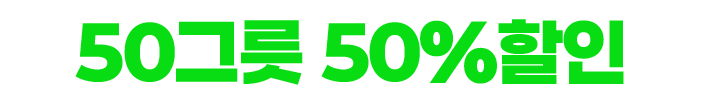
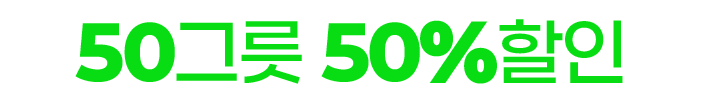
바로가기 버튼 및 이미지 수정

Changed region(s): [[0.688, 0.1748, 0.8974, 0.7573], [0.2393, 0.1748, 0.4487, 0.8155], [0.7179, 0.7864, 0.8974, 0.8155]]

diff --git a/pangyo/css/style.css b/pangyo/css/style.css
@@ -341,3 +341,46 @@ button {
   }
 }
 
+.event-link-button {
+  display: flex;
+  justify-content: center;
+  margin: 60px auto 20px;
+  background: transparent;
+  border: none;
+}
+
+.event-link-button span {
+  display: inline-flex;
+  align-items: center;
+  justify-content: center;
+
+  padding: 10px 28px;
+
+  background: linear-gradient(180deg, #39ff3b 0%, #18d81d 100%);
+  color: #241715;
+
+  font-family: "Paperlogy";
+  font-weight: 700;
+  font-size: 17px;
+
+  border-radius: 999px;
+
+  box-shadow:
+    0 4px 12px rgba(57,255,59,.35),
+    inset 0 2px 0 rgba(255,255,255,.45);
+
+  cursor: pointer;
+  transition: .25s;
+}
+
+.event-link-button span:hover {
+  transform: translateY(-3px) scale(1.03);
+  box-shadow:
+    0 6px 15px rgba(57,255,59,.45),
+    inset 0 2px 0 rgba(255,255,255,.55);
+}
+
+.event-link-button span:active {
+  transform: scale(.97);
+}
+

diff --git a/pangyo/js/script.js b/pangyo/js/script.js
@@ -19,12 +19,16 @@ revealElements.forEach((element) => {
   revealObserver.observe(element);
 });
 
-const scrollButton = document.querySelector(".scroll-button");
+const eventScrollButtons = document.querySelectorAll(".js-scroll-to-event");
 const eventSection = document.querySelector("#event");
 
-scrollButton?.addEventListener("click", () => {
+const scrollToEvent = () => {
   eventSection?.scrollIntoView({
     behavior: "smooth",
     block: "start",
   });
+};
+
+eventScrollButtons.forEach((button) => {
+  button.addEventListener("click", scrollToEvent);
 });

diff --git a/pangyo/index.html b/pangyo/index.html
@@ -38,6 +38,12 @@
             alt="OPEN EVENT"
           />
         </div>
+        <button
+          class="event-link-button js-scroll-to-event reveal"
+          type="button"
+        >
+          <span>👇 이벤트 바로가기 👇</span>
+        </button>
 
         <div class="hero-event-copy reveal">
           <img
